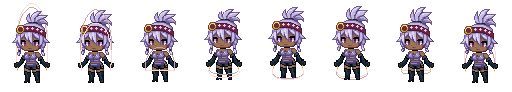
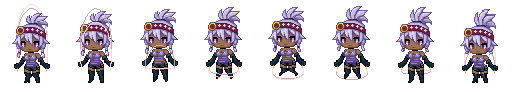
Salto della corda: le gambe si muovono, il corpo non e' piu' rigido
Bru: "il corpo e' troppo rigido, bene la corda, ora bisogna lavorare sul movimento delle gambe".
Prima le gambe salivano tutte intere. Ora ogni fotogramma ha la sua posa, fatta riga per riga
dalle gambe di Lei ferma: ginocchia piegate verso il centro quando atterra e si rialza, in punta
di piedi quando spinge e quando tocca terra, tese con la punta in giu' appena stacca, raccolte
coi piedi aperti a V mentre la corda le passa sotto. Il corpo sale e scende di quanto vogliono
le gambe; il busto si allunga quando stacca e si schiaccia quando atterra (la pancia).

Claude-Session: https://claude.ai/code/session_01AE7uzpDH1Lo1PHb29aXJxZ

diff --git a/strumenti/protagonisti/corda_davanti.py b/strumenti/protagonisti/corda_davanti.py
@@ -30,8 +30,30 @@ ciocche = op & (Y >= 36) & (Y <= 45) & ((X <= 9) | (X >= 29))
 braccia = op & (Y >= 46) & (Y <= 61) & ((X <= 11) | (X >= 28))
 gambe = op & (Y >= 59) & ~braccia
 corpo = op & ~coda & ~ciocche & ~braccia & ~gambe
-#        0  1  2  3  4  5  6   7        (la corda: 0 sopra la testa, 2 davanti, 4 sotto i piedi, 6 dietro)
-SALTO = [0, 0, 1, 3, 4, 3, 1, -1]      # -1: atterra e si piega sulle gambe
+# ---- le gambe: pose fatte riga per riga dalle gambe di Lei ferma (righe 59-72: l'anca, le cosce, gli stivali).
+# per ogni posa le righe di partenza dalla 60 in giu' (con quanto il ginocchio va in fuori), poi il piede se cambia
+COL = {'l': (6, 7, 15), 'h': (22, 37, 52), 'n': (49, 59, 70), 'm': (69, 79, 85)}
+PIEDI = {   # (piede sinistro da x 12, piede destro da x 20), sotto la caviglia (riga 70)
+    'punta_terra': (['.lhhl..', 'lhnl...', 'lll....'], ['....lnnl', '....lhnl', '....llll']),   # tallone su, punta a terra
+    'punta':       (['.lhhl..', '.lhl...', '.ll....'], ['....lnhl', '.....lnl', '.....ll.']),   # in aria, punta in giu'
+}
+R = lambda a, b: [(r, 0) for r in range(a, b)]
+POSE = {
+    # le ginocchia piegate vanno verso il centro (-1) e si toccano; raccolte in aria, i piedi si aprono a V (+)
+    'piegata':    dict(righe=R(60, 63) + [(63, -1), (64, -1), (65, -1)] + R(66, 68) + R(69, 73)),
+    'accosciata': dict(righe=R(60, 62) + [(62, -1), (63, -1), (65, -1), (66, -1)] + R(67, 68) + R(69, 73), lucido={63}),
+    'punte':      dict(righe=R(60, 71), piede='punta_terra'),
+    'tesa':       dict(righe=R(60, 71), piede='punta'),
+    'mezza':      dict(righe=R(60, 66) + [(67, 0), (69, 1), (70, 1)], piede='punta', piede_fuori=1),
+    'raccolta':   dict(righe=R(60, 62) + [(62, -1), (63, -1), (64, -1), (66, 0), (70, 1)], piede='punta',
+                       piede_fuori=2, lucido={63}),
+}
+LUNGA = lambda p: 1 + len(POSE[p]['righe']) + (len(PIEDI[POSE[p]['piede']][0]) if 'piede' in POSE[p] else 0)
+#        0          1        2       3        4           5        6        7     (la corda: 0 sopra la testa,
+GAMBE = ['piegata', 'punte', 'tesa', 'mezza', 'raccolta', 'mezza', 'punte', 'accosciata']   # 2 davanti, 4 sotto i
+PIEDI_SU = [0, 0, 1, 4, 7, 4, 0, 0]                                                       # piedi, 6 dietro)
+SALTO = [LUNGA(GAMBE[k]) - 14 + PIEDI_SU[k] for k in range(8)]     # quanto sale il corpo: gambe + salto
+BUSTO = [0, 0, 1, 0, 0, 0, 0, -1]      # il busto si allunga quando stacca e si schiaccia quando atterra (la pancia)
 POLSI = [round(math.cos(math.radians(45 * k))) for k in range(8)]
 DUR = 50
 MS, MD, MA, MB = 12, 12, 10, 8           # margini della tela: sinistra, destra, sopra, sotto
@@ -83,6 +105,29 @@ def arco(theta, mani_y):
     return puliti
 
 
+def disegna_gambe(out, p, j):
+    y = 59 - j + MA
+    for x in range(12, 28):                                              # l'anca resta col corpo
+        if gambe[59, x]:
+            out[y, x + MS] = src[59, x]
+    for lato, xs, verso in ((0, range(12, 19), -1), (1, range(20, 28), 1)):
+        yy = y + 1
+        for r, fuori in p['righe']:
+            for x in xs:
+                if gambe[r, x]:
+                    c = src[r, x].copy()
+                    if r in p.get('lucido', ()) and tuple(c[:3]) == COL['n']:
+                        c[:3] = COL['m']                                 # il ginocchio piegato prende la luce
+                    out[yy, x + MS + verso * fuori] = c
+            yy += 1
+        for riga in (PIEDI[p['piede']][lato] if 'piede' in p else ()):
+            for i, ch in enumerate(riga):
+                if ch != '.':
+                    xx = xs[0] + i + MS + verso * p.get('piede_fuori', 0)
+                    out[yy, xx, :3] = COL[ch]; out[yy, xx, 3] = 255
+            yy += 1
+
+
 def disegna_corda(out, punti, col, solo_vuoto=False):
     for x, y in punti:
         if 0 <= x < CW and 0 <= y < CH and (not solo_vuoto or out[y, x, 3] == 0):
@@ -93,16 +138,14 @@ fot = []
 for k in range(8):
     th = 45 * k
     j, pl, jp = SALTO[k], POLSI[k], SALTO[k - 1]
+    s, sp = BUSTO[k], BUSTO[k - 1]
     lei = np.zeros((CH, CW, 4), np.uint8)
-    if j >= 0:
-        posa(lei, gambe, lambda r: j)                                   # in aria: anche i piedi
-    else:
-        posa(lei, gambe, lambda r: lineare(r, 58, j, 62, 0))            # atterra: le cosce si piegano
-    posa(lei, corpo, lambda r: j)
-    posa(lei, ciocche, lambda r: lineare(r, 36, j, 45, jp))
-    posa(lei, coda, lambda r: lineare(r, 13, j, 0, jp))
-    posa(lei, braccia, lambda r: lineare(r, 46, j, 60, j + pl))
-    mani_y = 61 + MA - (j + pl)
+    disegna_gambe(lei, POSE[GAMBE[k]], j)
+    posa(lei, corpo, lambda r: j + s if r <= 52 else j)                 # la riga 52 e' la pancia
+    posa(lei, ciocche, lambda r: lineare(r, 36, j + s, 45, jp + sp))
+    posa(lei, coda, lambda r: lineare(r, 13, j + s, 0, jp + sp))
+    posa(lei, braccia, lambda r: lineare(r, 46, j + s, 60, j + s + pl))
+    mani_y = 61 + MA - (j + s + pl)
     dietro = 180 < th % 360 or th % 360 == 0                             # sopra la testa e dietro: dietro a lei
     out = np.zeros((CH, CW, 4), np.uint8)
     scia = arco(th - 20, mani_y)
